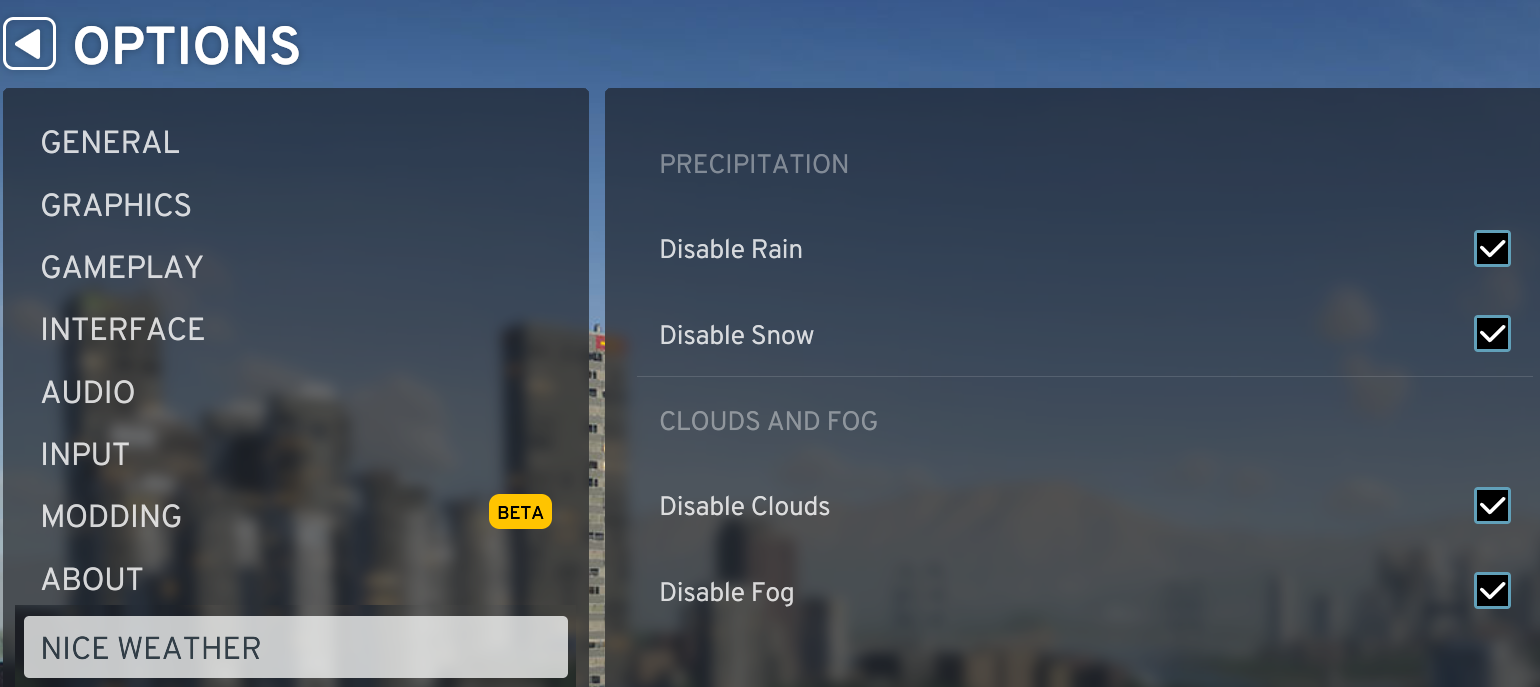
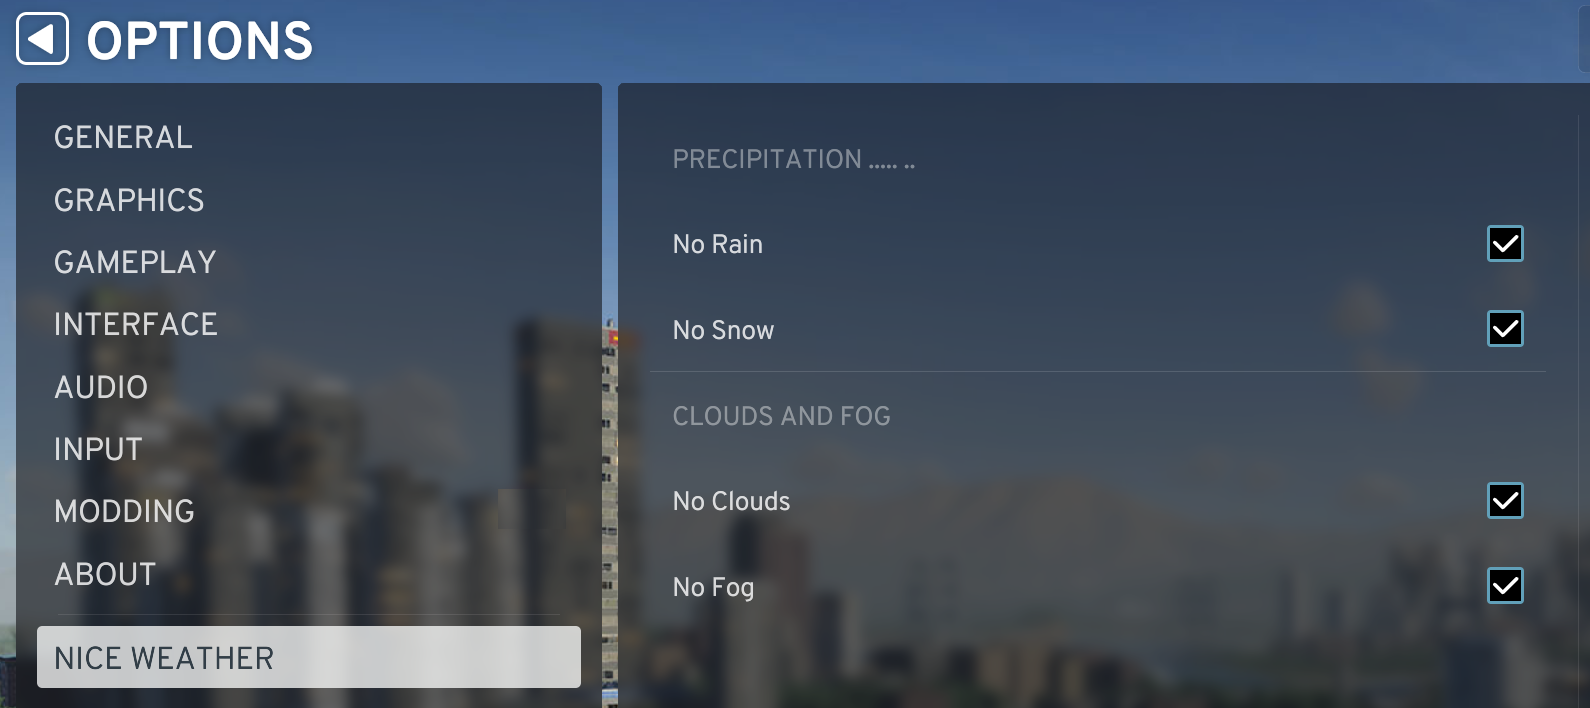
Version 1.0.7, Changed the checkbox captions on the Options page by replacing the word 'Disable' with 'No' for easier understanding by non-english speakers, Updated the GameVersion compatibility value to any version to avoid error messages when a new game version is released

diff --git a/NiceWeather/Setting.cs b/NiceWeather/Setting.cs
@@ -238,20 +238,20 @@ namespace NiceWeather
                 // =================================================================
                 // Precipitation group localization
 
-                { m_Setting.GetOptionGroupLocaleID(Setting.kPrecipitationGroup), "Precipitation  ..... ." },
+                { m_Setting.GetOptionGroupLocaleID(Setting.kPrecipitationGroup), "Precipitation  ..... .." },
 
                 // =================================================================
                 // Disable rain toggle control localization
 
                 // TODO: *** Update toggle title and description
-                { m_Setting.GetOptionLabelLocaleID(nameof(Setting.DisableRainToggle)), "Disable Rain" },
-                { m_Setting.GetOptionDescLocaleID(nameof(Setting.DisableRainToggle)), $"Check to disable the rain" },
+                { m_Setting.GetOptionLabelLocaleID(nameof(Setting.DisableRainToggle)), "No Rain" },
+                { m_Setting.GetOptionDescLocaleID(nameof(Setting.DisableRainToggle)), $"Check to stop the rain" },
 
                 // -----------------------------------------------------------------
                 // Disable snow toggle control localization
 
-                { m_Setting.GetOptionLabelLocaleID(nameof(Setting.DisableSnowToggle)), "Disable Snow" },
-                { m_Setting.GetOptionDescLocaleID(nameof(Setting.DisableSnowToggle)), $"Check to disable the snow" },
+                { m_Setting.GetOptionLabelLocaleID(nameof(Setting.DisableSnowToggle)), "No Snow" },
+                { m_Setting.GetOptionDescLocaleID(nameof(Setting.DisableSnowToggle)), $"Check to stop and remove the snow" },
 
                 // =================================================================
                 // Clouds group localization
@@ -262,14 +262,14 @@ namespace NiceWeather
                 // Disable clouds toggle control localization
 
                 // TODO: *** Update toggle title and description
-                { m_Setting.GetOptionLabelLocaleID(nameof(Setting.DisableCloudsToggle)), "Disable Clouds" },
-                { m_Setting.GetOptionDescLocaleID(nameof(Setting.DisableCloudsToggle)), $"Check to disable the clouds" },
+                { m_Setting.GetOptionLabelLocaleID(nameof(Setting.DisableCloudsToggle)), "No Clouds" },
+                { m_Setting.GetOptionDescLocaleID(nameof(Setting.DisableCloudsToggle)), $"Check to remove the clouds" },
 
                 // -----------------------------------------------------------------
                 // Disable fog toggle control localization
 
-                { m_Setting.GetOptionLabelLocaleID(nameof(Setting.DisableFogToggle)), "Disable Fog" },
-                { m_Setting.GetOptionDescLocaleID(nameof(Setting.DisableFogToggle)), $"Check to disable the fog" },
+                { m_Setting.GetOptionLabelLocaleID(nameof(Setting.DisableFogToggle)), "No Fog" },
+                { m_Setting.GetOptionDescLocaleID(nameof(Setting.DisableFogToggle)), $"Check to remove the fog" },
 
                 /*
                 // =================================================================

diff --git a/NiceWeather/Properties/LongDescription.md b/NiceWeather/Properties/LongDescription.md
@@ -1,13 +1,13 @@
 ### What it does
-Disables the rain, snow, clouds, and fog in the game and in the editor for better visibility.
+Stops the rain, and snow, removes clouds, and fog in the game and in the editor for better visibility.
 
-The mod makes it easier to work with the image overlay in city building projects, as the snow, clouds, and fog obstruct the view of the road, tram, and train networks.
+The mod makes it easier to build your city, and to work with the image overlay in city building projects, as the snow, clouds, and fog obstruct the view of the road, tram, and train networks, and makes it very hard to see the overlay image.
 
-The settings on the "Options" page control which elements should be disabled in the game and in the editor.
+The settings on the "Options" page control which elements should be removed in the game and in the editor.
 
-- The "Disable Rain" toggle stops the rain and prevents further rainfall.
-- The "Disable Snow" toggle stops the snow, removes the existing snow to reveal the roads and tracks on the ground, and prevents further snowfall.
-- The "Disable Clouds" and "Disable Fog" toggles disable and remove the clouds and fog.
+- The "No Rain" toggle stops the rain and prevents further rainfall.
+- The "No Snow" toggle stops the snow, removes the existing snow to reveal the roads and tracks on the ground, and prevents further snowfall.
+- The "No Clouds" and "No Fog" toggles disable and remove the clouds and fog.
 
 ### How it works
 The mod periodically checks the weather and if a disabled weather element is detected, it stops and removes it.

diff --git a/NiceWeather/Properties/LatestChangelog.md b/NiceWeather/Properties/LatestChangelog.md
@@ -1,3 +1,3 @@
-### Version 1.0.6
-- Made the weather changing process faster,
-- All option values are saved correclty.
+### Version 1.0.7
+- Changed the checkbox captions on the Options page, 
+- Updated the GameVersion compatibility value.
